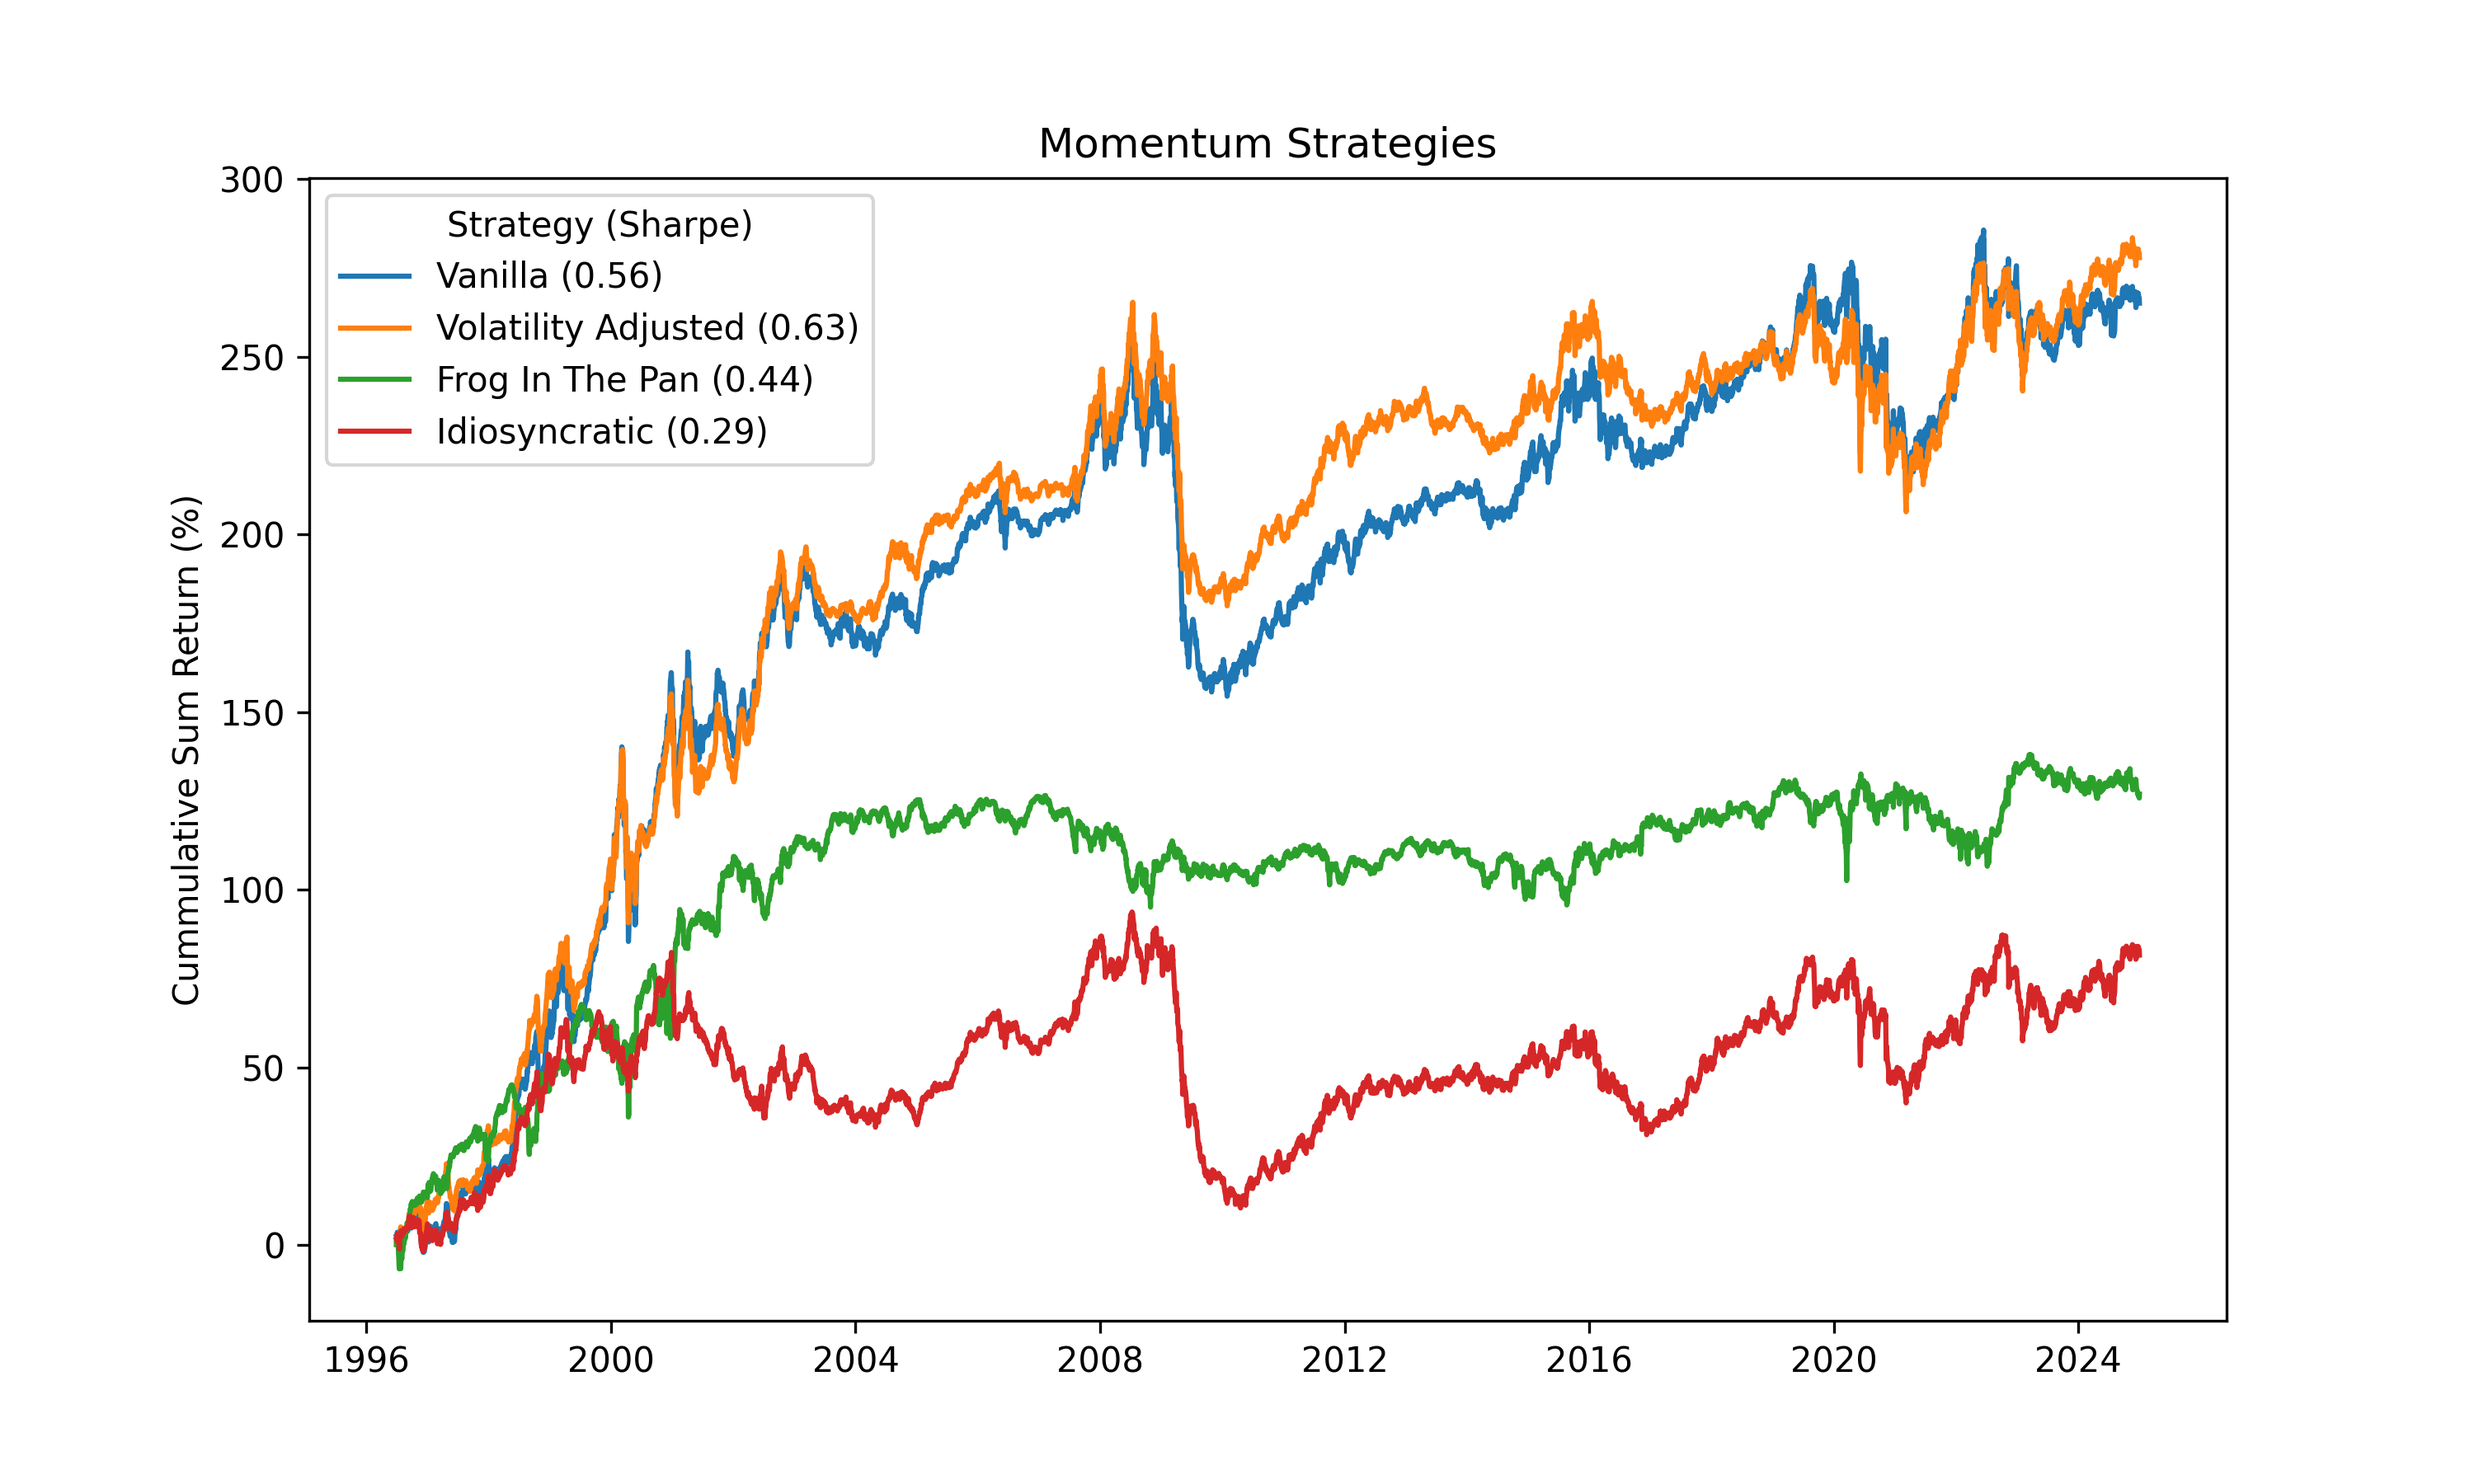
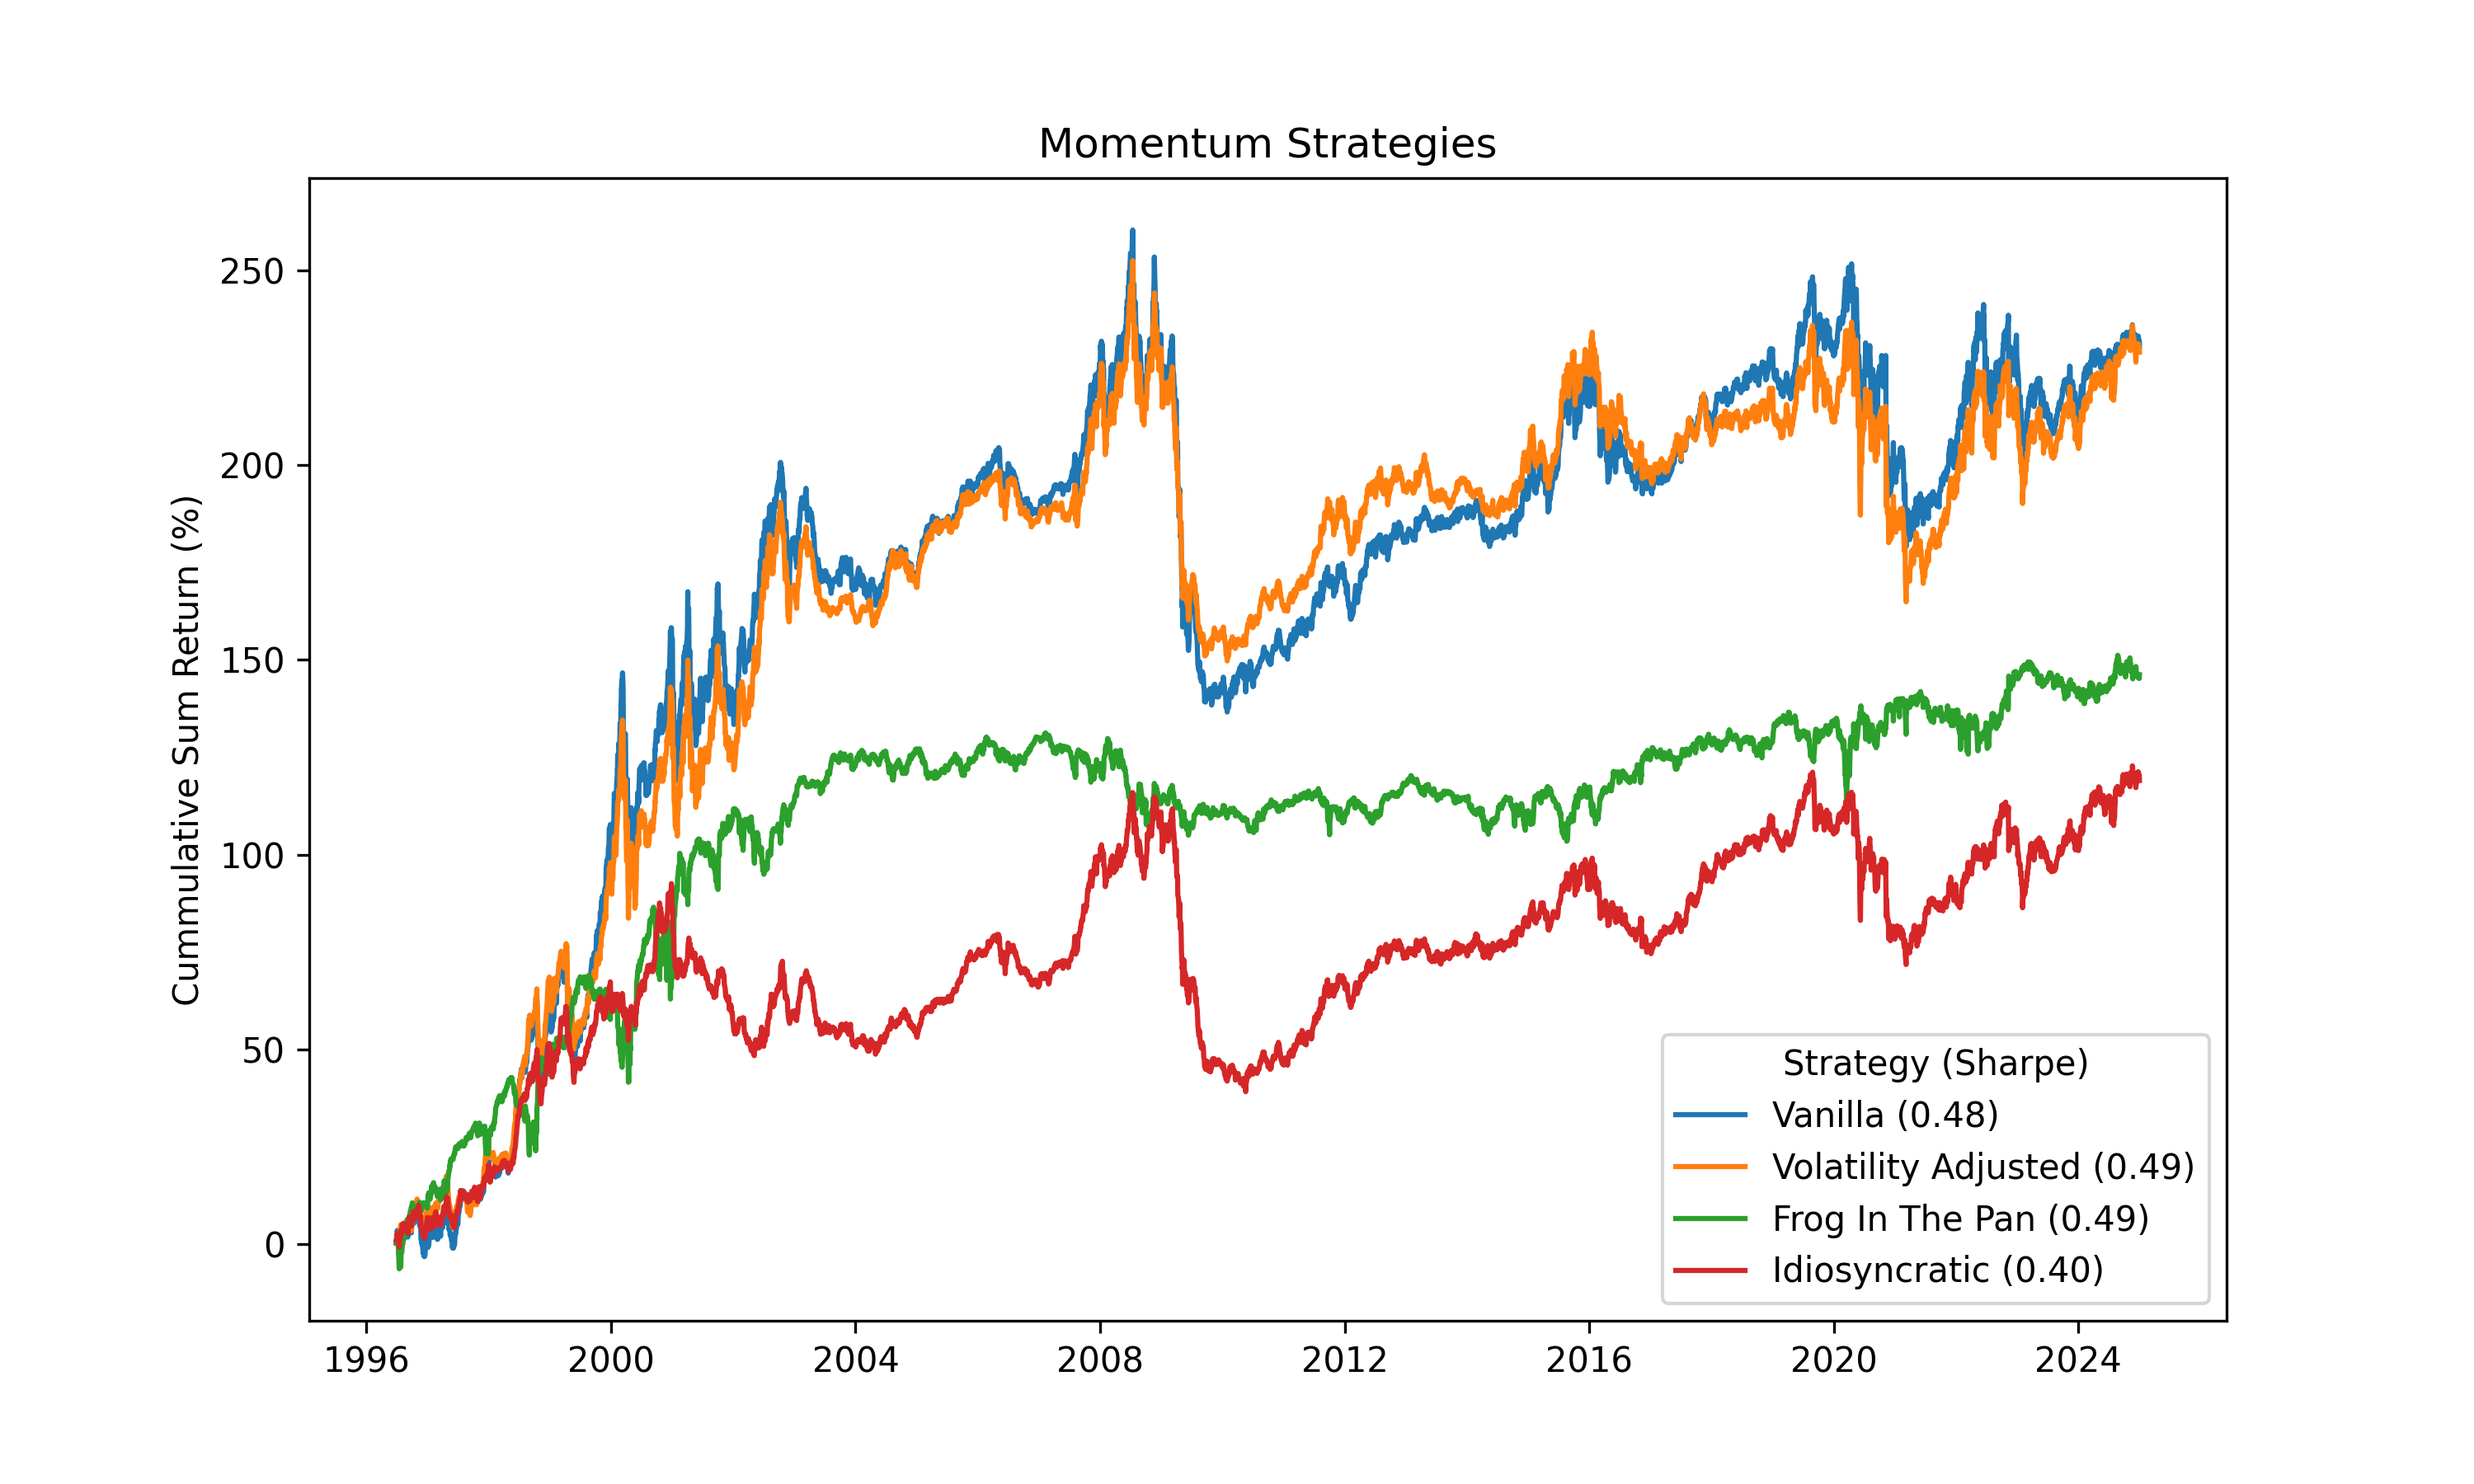
Fixed barra plots.

diff --git a/research/momentum_flavors/barra_momentum_research.py b/research/momentum_flavors/barra_momentum_research.py
@@ -35,24 +35,14 @@ def create_cummulative_returns(portfolios: pl.DataFrame) -> pl.DataFrame:
         .unpivot(index="date", variable_name="bin", value_name="return")
         .sort(["date", "bin"])
         # Cummulative log return
-        .with_columns(
-            pl.col("return")
-            .truediv(100)
-            .log1p()
-            .cum_sum()
-            .mul(100)
-            .over("bin")
-            .alias("cummulative_return")
-        )
+        .with_columns(pl.col("return").truediv(100).log1p().cum_sum().mul(100).over("bin").alias("cummulative_return"))
         # Bins wide
         .pivot(index="date", on="bin", values="cummulative_return")
         .sort("date")
     )
 
 
-def create_backtest_chart(
-    portfolios: pl.DataFrame, cummulative_returns: pl.DataFrame, signal: str
-) -> None:
+def create_backtest_chart(portfolios: pl.DataFrame, cummulative_returns: pl.DataFrame, signal: str) -> None:
     signal_title = signal.replace("_", " ").title()
     # ----- Create Chart -----
     sharpe = portfolios["spread"].mean() / portfolios["spread"].std() * np.sqrt(252)
@@ -82,8 +72,6 @@ def create_backtest_chart(
 start_date = date(1995, 1, 1)
 end_date = date(2024, 12, 31)
 
-# print(dal.get_assets_columns())
-
 # ----- Load Data -----
 data = dal.assets.load(
     start_date=start_date,
@@ -104,10 +92,6 @@ data = dal.assets.load(
 
 print("Data", data)
 
-data = data.filter(pl.col("russell_2000")).sort(["barrid", "date"])
-
-print("Data", data)
-
 # ----- Compute Signals -----
 signals = (
     data
@@ -115,25 +99,11 @@ signals = (
     .sort(["barrid", "date"])
     .with_columns(
         # Vanilla Momentum
-        pl.col("return")
-        .truediv(100)
-        .log1p()
-        .rolling_sum(window_size=230)
-        .over("barrid")
-        .alias("momentum"),
+        pl.col("return").truediv(100).log1p().rolling_sum(window_size=230).over("barrid").alias("momentum"),
         # Idiosyncratic Momentum
-        pl.col("specific_return")
-        .truediv(100)
-        .log1p()
-        .rolling_sum(window_size=230)
-        .over("barrid")
-        .alias("idiosyncratic_momentum"),
+        pl.col("specific_return").truediv(100).log1p().rolling_sum(window_size=230).over("barrid").alias("idiosyncratic_momentum"),
         # Volatility
-        pl.col("return")
-        .truediv(100)
-        .rolling_std(window_size=230)
-        .over("barrid")
-        .alias("volatility"),
+        pl.col("return").truediv(100).rolling_std(window_size=230).over("barrid").alias("volatility"),
     )
     # Lag
     .with_columns(
@@ -142,9 +112,7 @@ signals = (
         pl.col("volatility").shift(22).over("barrid"),
     )
     # Volatility adjusted momentum
-    .with_columns(
-        pl.col("momentum").truediv(pl.col("volatility")).alias("volatility_adjusted_momentum")
-    )
+    .with_columns(pl.col("momentum").truediv(pl.col("volatility")).alias("volatility_adjusted_momentum"))
     # Percent up and percent down days
     .with_columns(
         pl.col("return").gt(0).cast(pl.Int32).alias("positive"),
@@ -156,30 +124,23 @@ signals = (
         pl.col("negative").rolling_sum(window_size=22).over("barrid"),
     )
     # Information discreteness
-    .with_columns(
-        pl.col("momentum")
-        .sign()
-        .mul(pl.col("negative").sub(pl.col("positive")).truediv(22))
-        .alias("id")
-    )
+    .with_columns(pl.col("momentum").sign().mul(pl.col("negative").sub(pl.col("positive")).truediv(22)).alias("id"))
     .with_columns(pl.col("id").shift(1).over("barrid"))
     # Frog in the pan signal
-    .with_columns(
-        pl.col("momentum")
-        .sub(pl.col("momentum").mean())
-        .truediv(pl.col("momentum").std())
-        .over("date")
-        .alias("z_momentum")
-    )
-    .with_columns(
-        pl.col("id").sub(pl.col("id").mean()).truediv(pl.col("id").std()).over("date").alias("z_id")
-    )
+    .with_columns(pl.col("momentum").sub(pl.col("momentum").mean()).truediv(pl.col("momentum").std()).over("date").alias("z_momentum"))
+    .with_columns(pl.col("id").sub(pl.col("id").mean()).truediv(pl.col("id").std()).over("date").alias("z_id"))
     .with_columns(pl.col("z_momentum").mul(pl.col("z_id")).alias("frog_in_the_pan_momentum"))
     # Rename vanilla momentum
     .with_columns(pl.col("momentum").alias("vanilla_momentum"))
     # Price and null filter
     .with_columns(pl.col("price").shift(1).over("barrid").alias("price_lag"))
-    .filter(pl.col("price_lag").gt(5))
+)
+
+print("Signals", signals)
+print(signals.group_by("date").agg(pl.len()).sort("date"))
+
+signals = (
+    signals.filter(pl.col("price_lag").gt(5))
     .drop_nulls(
         [
             "vanilla_momentum",
